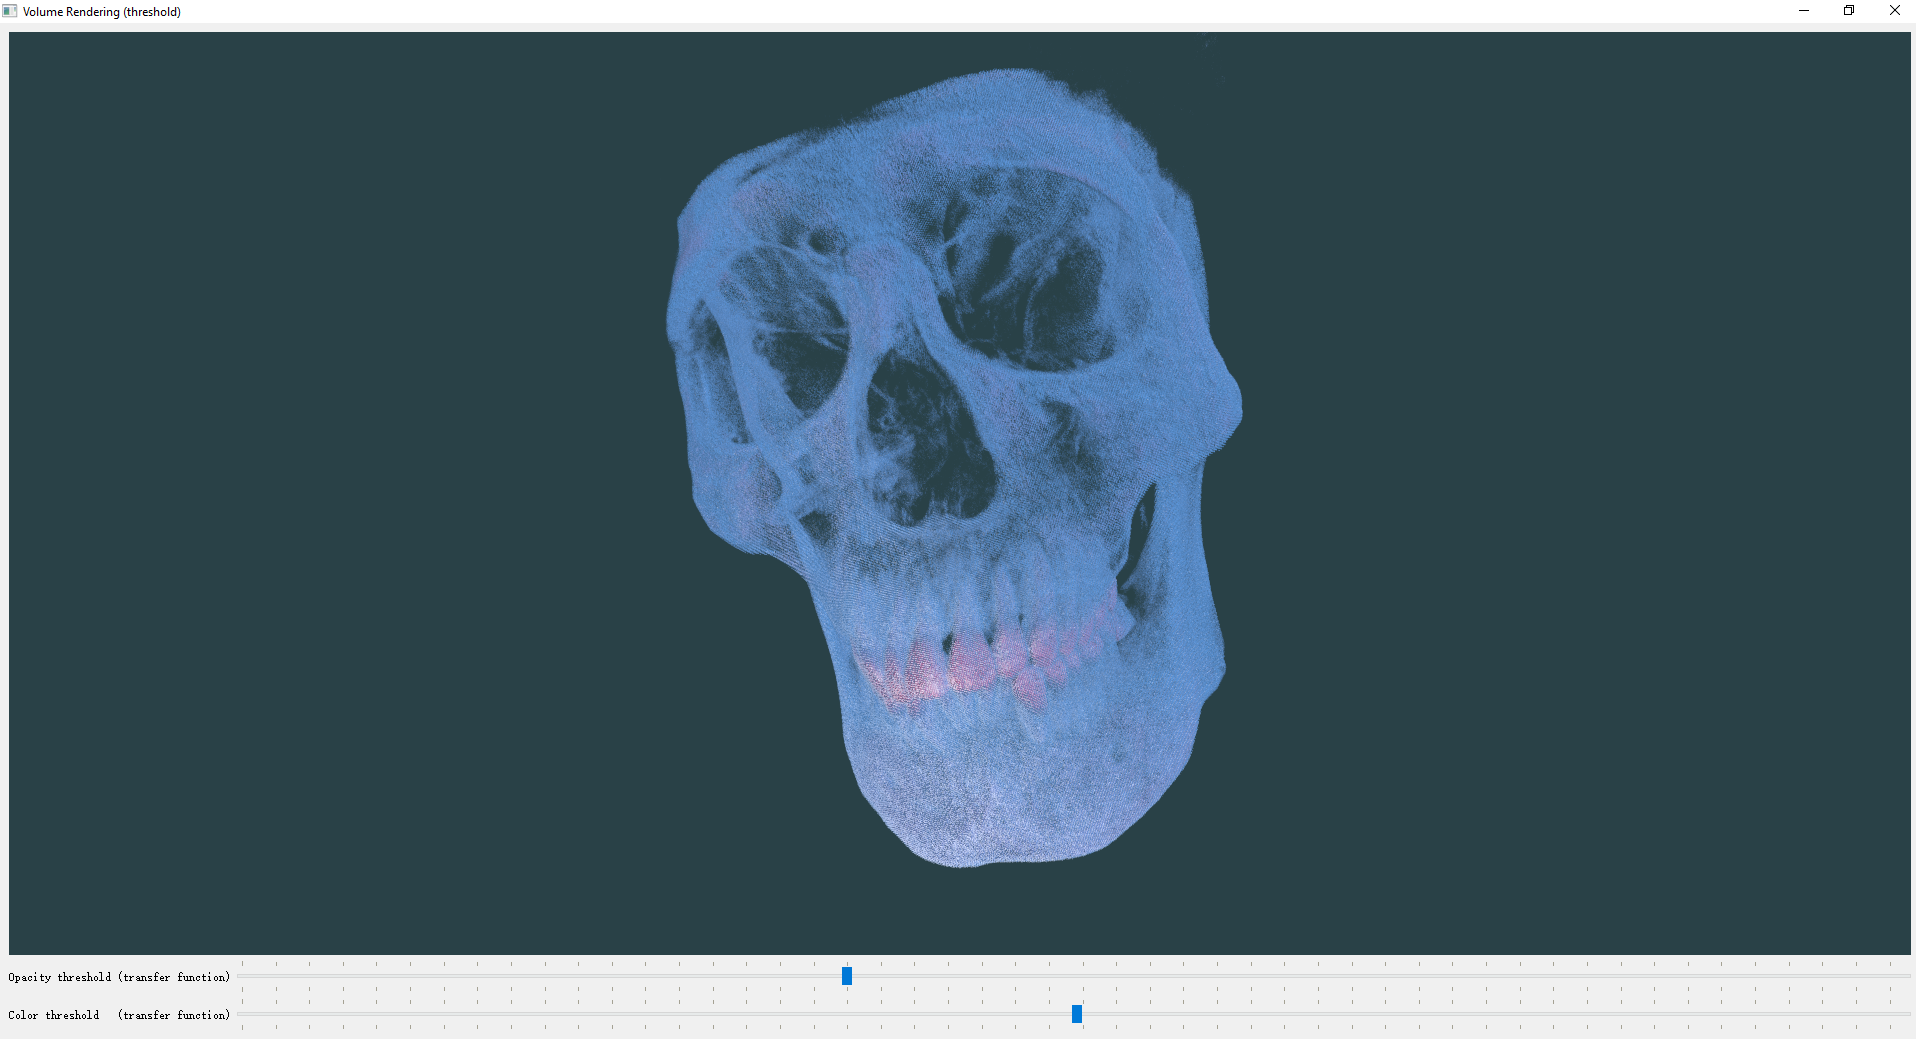
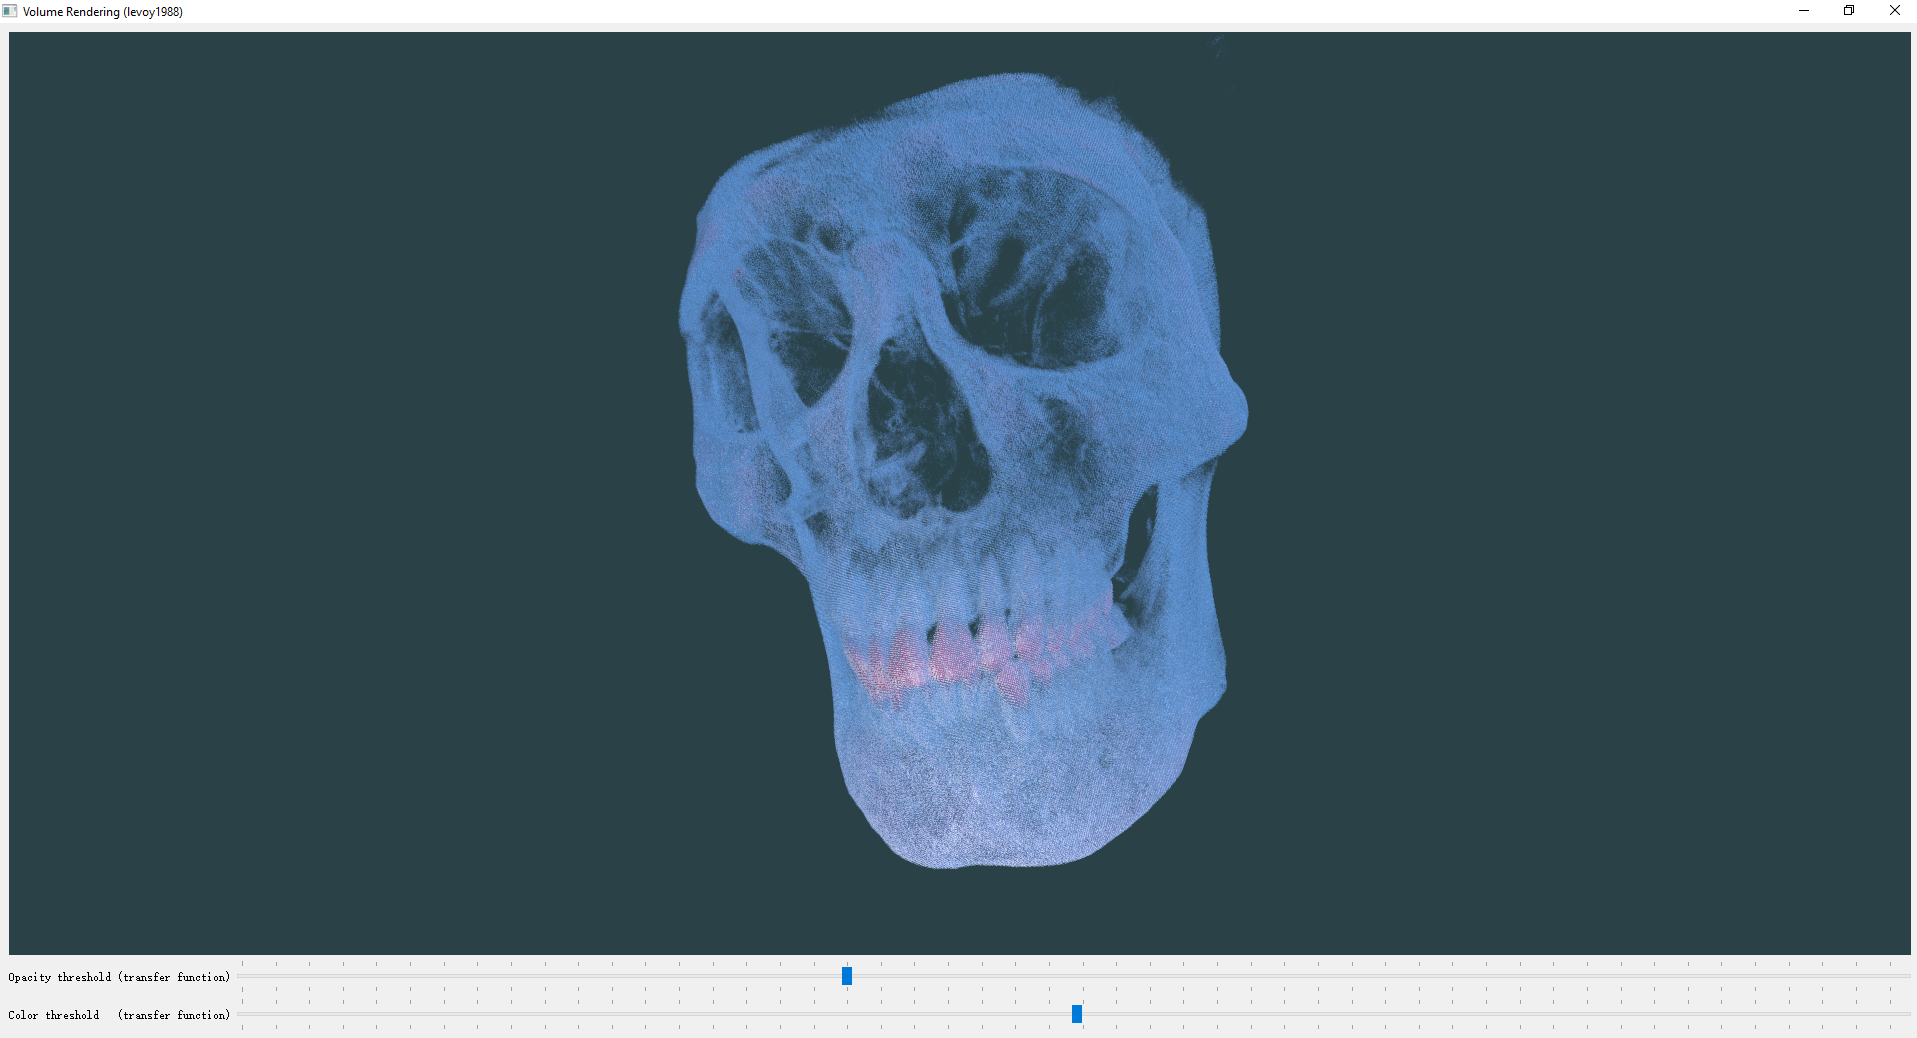
docs: add volume raycasting ref

Changed region(s): [[0.3387, 0.0617, 0.6467, 0.8324], [0.0924, 0.9249, 0.1232, 0.9865], [0.0616, 0.0, 0.0924, 0.0308]]

diff --git a/src/main.cpp b/src/main.cpp
@@ -11,7 +11,7 @@ int main(int argc, char *argv[]) {
     QApplication app(argc, argv);
 
     QCoreApplication::setOrganizationName("upupming");
-    app.setApplicationName("Volume Rendering (threshold)");
+    app.setApplicationName("Volume Rendering (levoy1988)");
     app.setApplicationVersion(QT_VERSION_STR);
 
 #if _DEBUG

diff --git a/README.md b/README.md
@@ -138,3 +138,4 @@ $$
 10. [Chapter 39. Volume Rendering Techniques](https://developer.nvidia.com/gpugems/gpugems/part-vi-beyond-triangles/chapter-39-volume-rendering-techniques)
 11. https://cgl.ethz.ch/teaching/former/scivis_07/Notes/Handouts/03-raycasting.pdf
 12. [slab 光线和 box 求交法](materials/03raytracing1.pdf)
+13. https://github.com/m-pilia/volume-raycasting/
